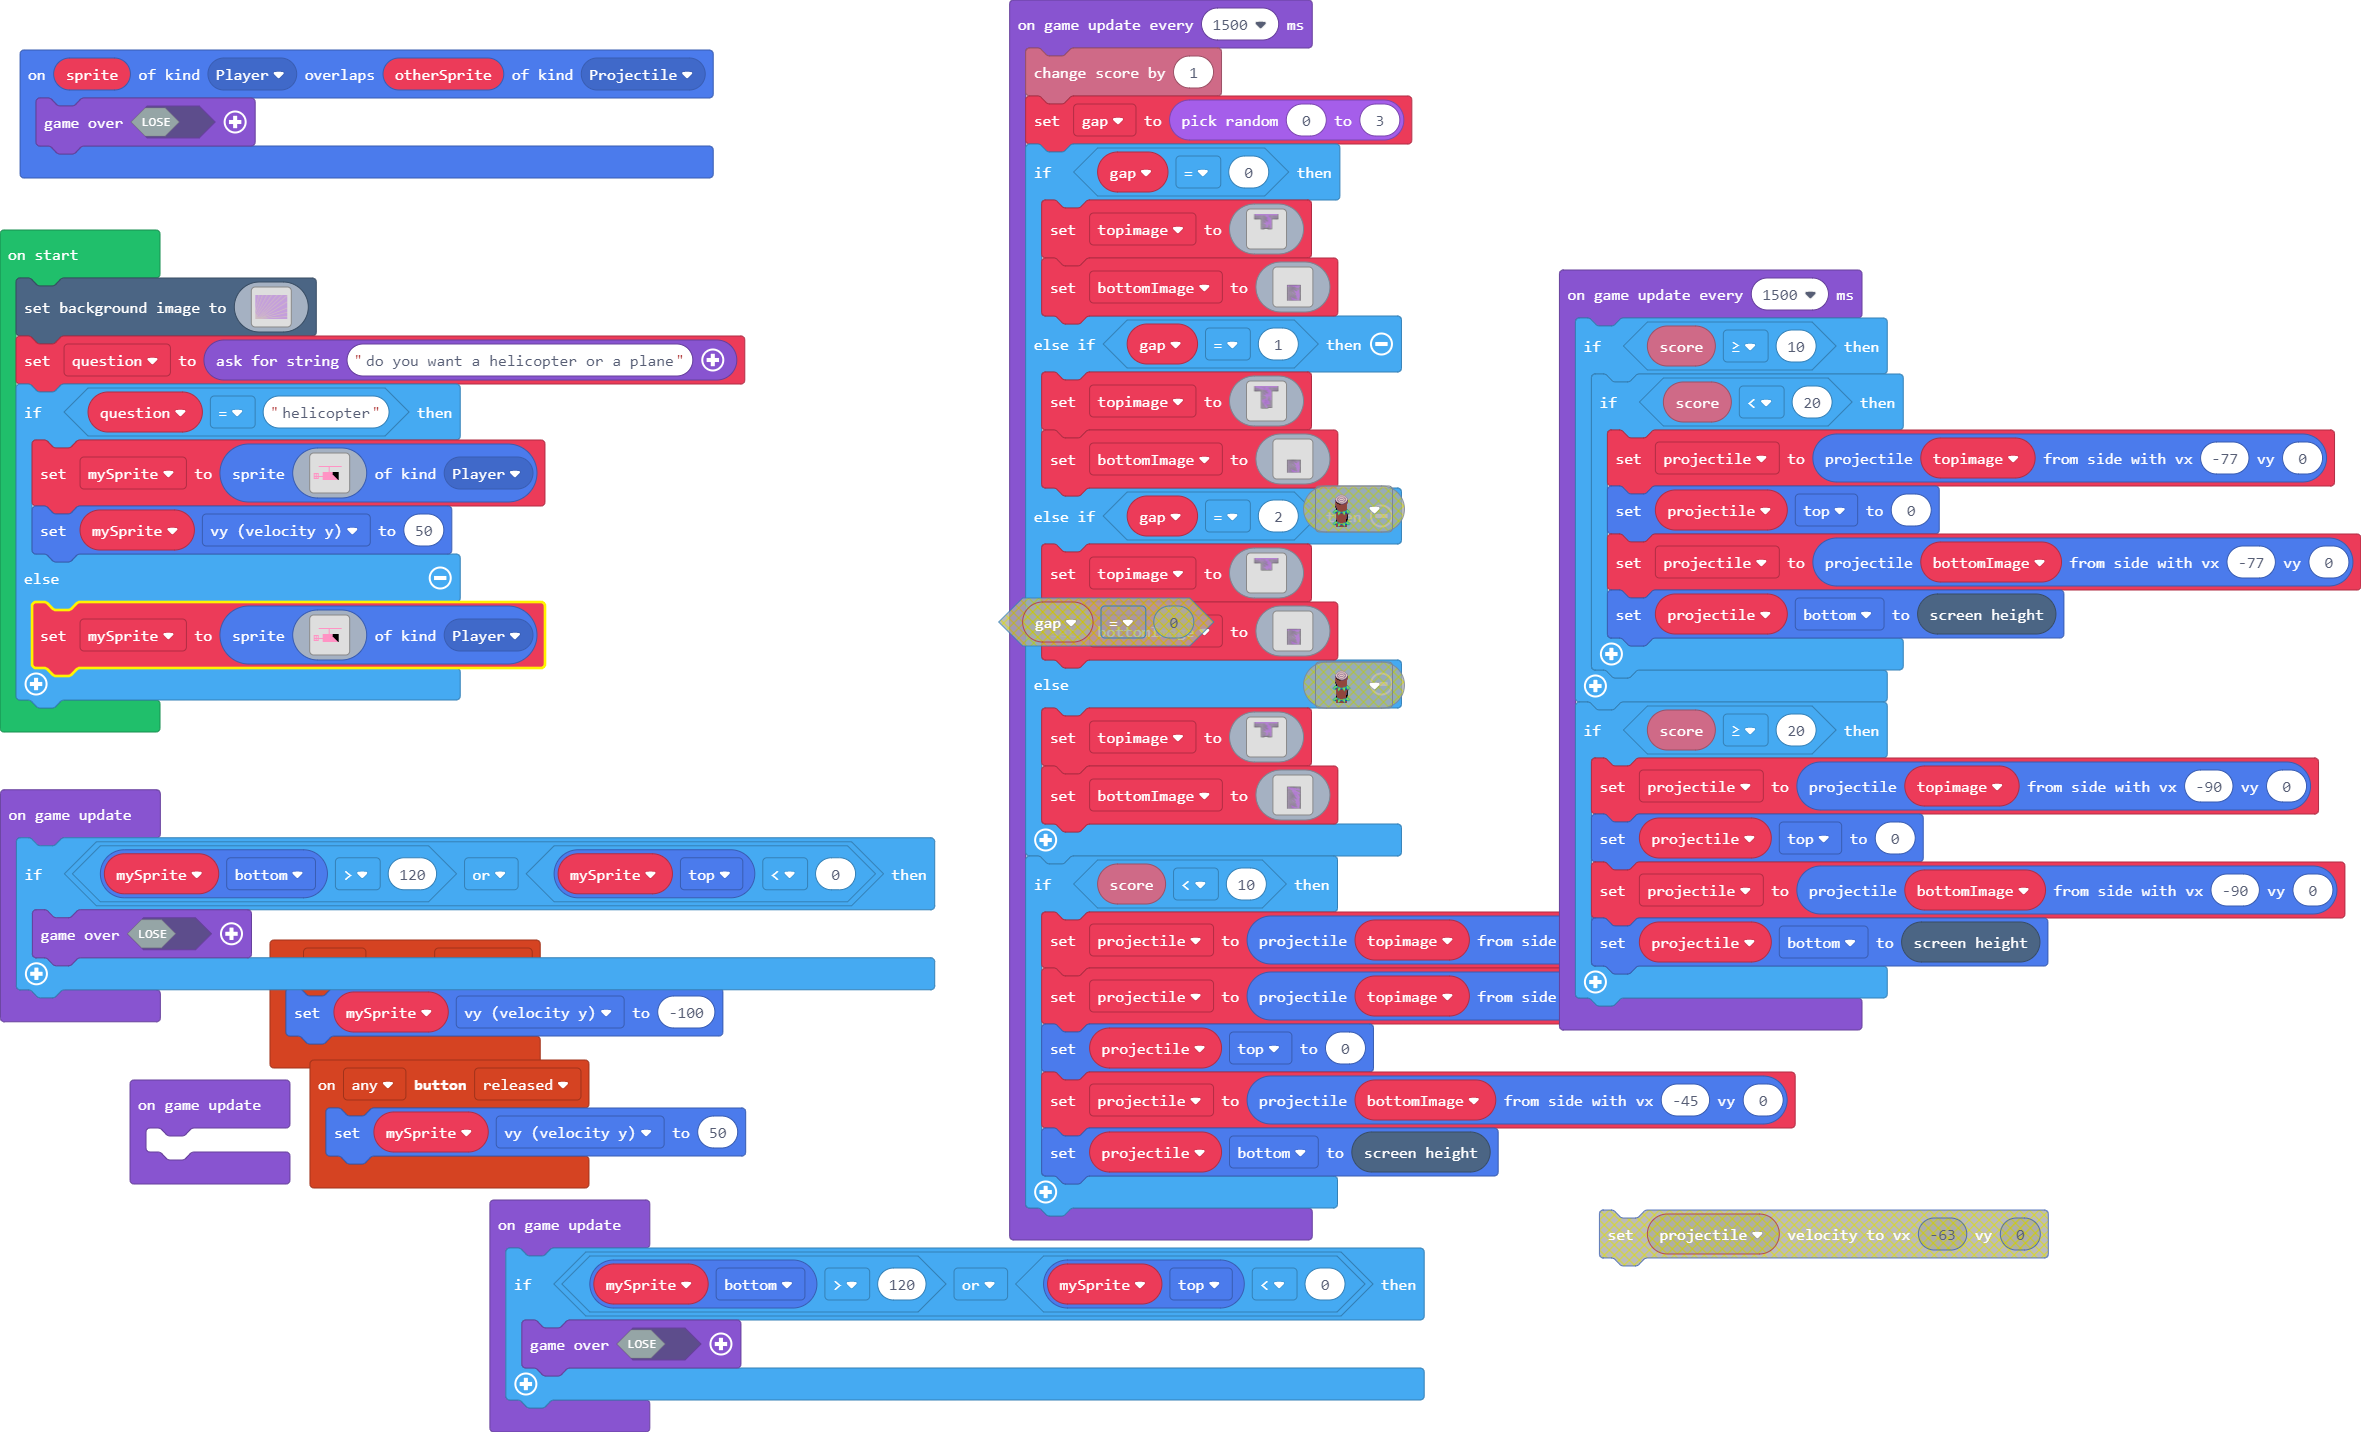
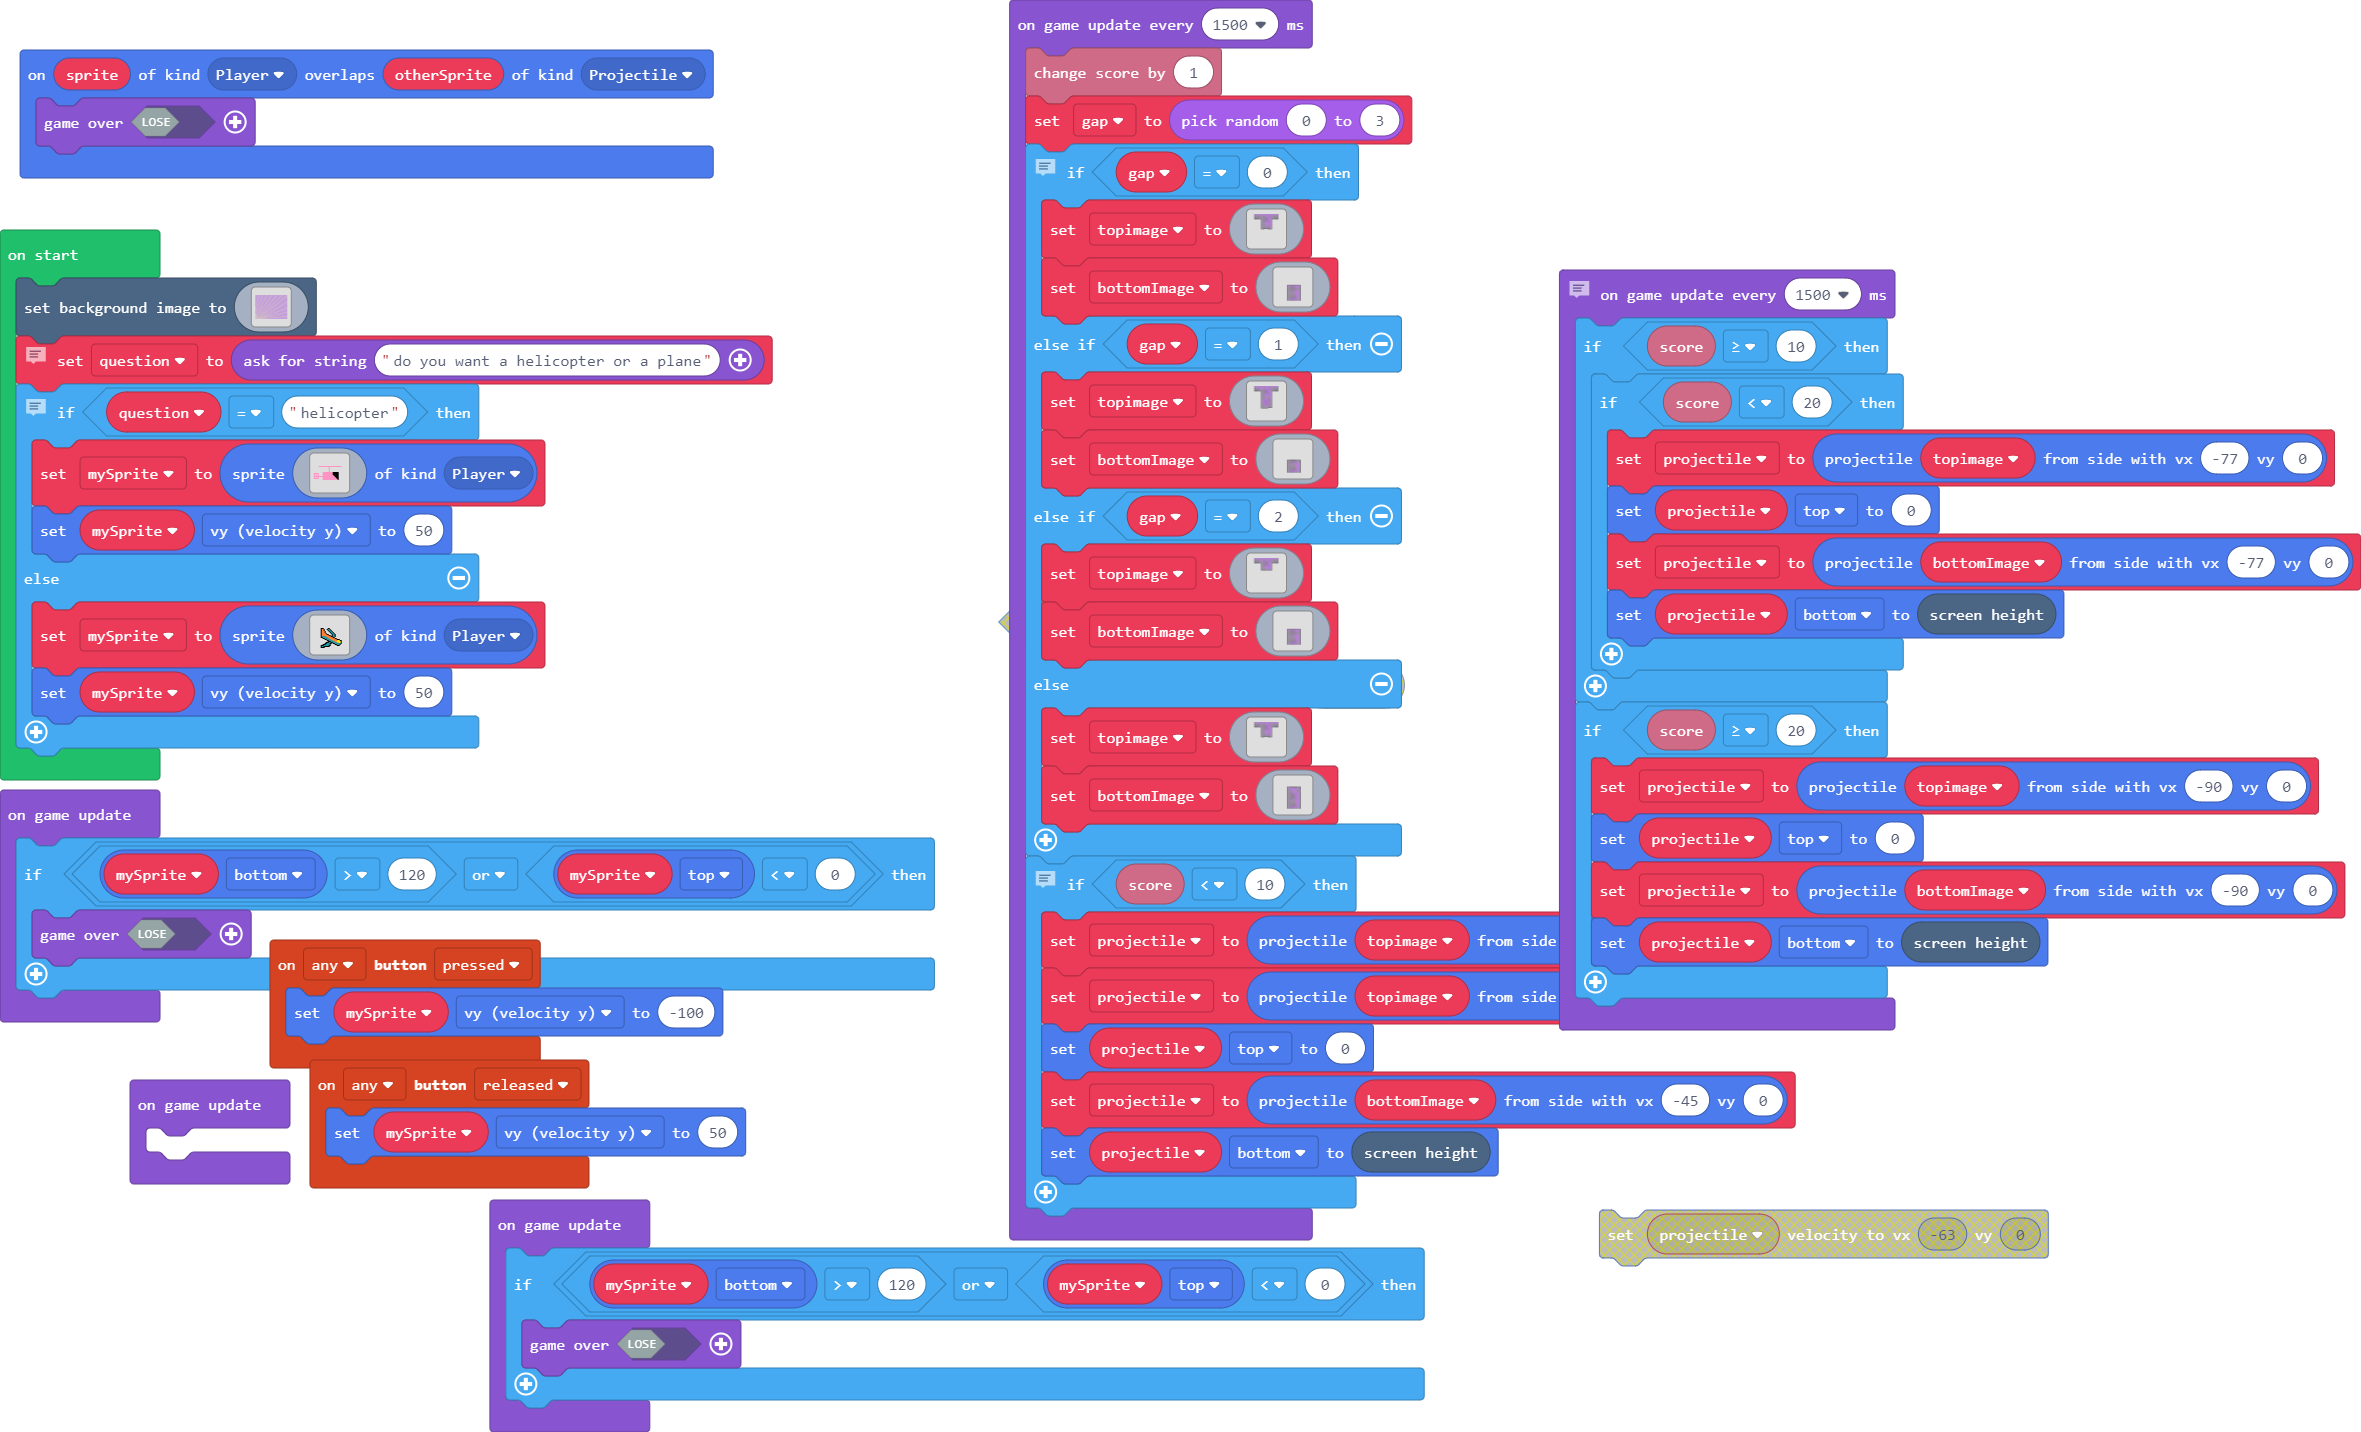
Update main.blocks, main.ts

diff --git a/main.ts b/main.ts
@@ -134,7 +134,11 @@ b b b b b b b b b b b b b b b b b b b b b b b b b b b b b b b b b b b b b b b b 
 b b b b b b b b b b b b b b b b b b b b b b b b b b b b b b b b b b b b b b b b b b b b b b b a a a a a a a a a a a a a a a a a a a a a a a a a a a a a a a a a a a a a a a a a a a a a a a a a a a a a a a a a a a a a a a a a a a a a a a a a a a a a a a a a a a a a a a a a a a a a a a a a a a a a a a a a a a a a a a a a 
 b b b b b b b b b b b b b b b b b b b b b b b b b b b b b b b b b b b a a a a a a a a a a a a a a a a a a a a a a a a a a a a a a a a a a a a a a a a a a a a a a a a a a a a a a a a a a a a a a a a a a a a a a a a a a a a a a a a a a a a a a a a a a a a a a a a a a a a a a a a a a a a a a a a a a a a a a a a a a a a a 
 `)
+// asks the player if they want their sprite to be a
+// plane or helicopter
 let question = game.askForString("do you want a helicopter or a plane")
+// depending on user input this series of code decides
+// on which sprite to use
 if (question == "helicopter") {
     mySprite = sprites.create(img`
 . . . . . . . . . . . . . . . . . . . . . . . . . . . . . . . . 
@@ -182,34 +186,37 @@ if (question == "helicopter") {
 . . . . . . . . . . . . . . . . . . . . . . . . . . . . . . . . 
 . . . . . . . . . . . . . . . . . . . . . . . . . . . . . . . . 
 . . . . . . . . . . . . . . . . . . . . . . . . . . . . . . . . 
-. . . . . 3 3 3 3 3 3 3 3 3 3 3 3 3 3 3 3 3 3 3 3 3 3 3 . . . . 
-. . . . . . . . . . . . . . . 3 . . . . . . . . . . . . . . . . 
-. . . . . . . . . . . . . . . 3 . . . . . . . . . . . . . . . . 
-. . . . . . . . . . . . . . . 3 . . . . . . . . . . . . . . . . 
-. . . . . . . . . . . . . . . 3 . . . . . . . . . . . . . . . . 
-. . . . . . . . . . . . . . . 3 . . . . . . . . . . . . . . . . 
-. . . . . . . . . 3 3 3 3 3 3 3 3 3 3 f f f f f f . . . . . . . 
-3 3 3 3 3 . . . . 3 3 3 3 3 3 3 3 3 3 f f f f f f . . . . . . . 
-3 . 3 . 3 . . . . 3 3 3 3 3 3 3 3 3 3 f f f f f f . . . . . . . 
-3 . 3 . 3 . . . . 3 3 3 3 3 3 3 3 3 3 3 f f f f f . . . . . . . 
-3 3 3 3 3 3 3 3 3 3 3 3 3 3 3 3 3 3 3 3 3 f f f f . . . . . . . 
-3 . 3 . 3 . . . . 3 3 3 3 3 3 3 3 3 3 3 3 3 f f f . . . . . . . 
-3 3 3 3 3 . . . . 3 3 3 3 3 3 3 3 3 3 3 3 3 3 f f . . . . . . . 
-. . . . . . . . . 3 3 3 3 3 3 3 3 3 3 3 3 3 3 3 f . . . . . . . 
-. . . . . . . . . . . . . . . . . . . . . . . . . . . . . . . . 
-. . . . . . . . . . . . . . . . . . . . . . . . . . . . . . . . 
-. . . . . . . . . . . . . . . . . . . . . . . . . . . . . . . . 
-. . . . . . . . . . . . . . . . . . . . . . . . . . . . . . . . 
-. . . . . . . . . . . . . . . . . . . . . . . . . . . . . . . . 
-. . . . . . . . . . . . . . . . . . . . . . . . . . . . . . . . 
+. . . . . . . f f f . . . . f f . . . . . . . . . . . . . . . . 
+. . . . . . . f 4 4 f . . f 6 6 f . . . . . . . . . . . . . . . 
+. . . . . . . f 4 4 f . . . f 6 6 f . . . . . . . . . . . . . . 
+. . . . . . . f 4 4 4 f . . . f 6 6 f . . . . . . . . . . . . . 
+. . . . . . . f 4 4 4 f . . . . f 6 6 f . . . . . . . . . . . . 
+. . . . . . . f 4 4 4 4 f . . . . f 6 6 f . . . . . . . . . . . 
+. . . . . . . f 4 4 4 4 4 f f . . . f 6 6 f . . . . . . . . . . 
+. . . . . . . f 4 4 4 4 4 4 4 f f . f 6 6 f . . . . . . . . . . 
+. . . . . . . f 6 6 6 6 4 4 4 4 4 f f 6 6 f . . . . . . . . . . 
+. . . . . . . f f 6 6 6 6 6 4 4 4 4 4 f f . . . . . . . . . . . 
+. . . . . . . . . f f 6 6 6 6 4 4 4 4 4 4 f f . . . . . . . . . 
+. . . . . . . . . . . f f 6 6 6 6 4 4 4 4 4 4 f f f . . . . . . 
+. . . . . . . . . . . . . f f 6 6 6 6 4 4 4 4 4 5 5 f f . . . . 
+. . . . . . . . . . . . . . f f f 6 6 6 6 4 4 5 5 5 5 f . . . . 
+. . . . . . . . . . . . f f f 6 6 f f 6 6 6 6 4 4 5 5 f . . . . 
+. . . . . . . . . . . f f 6 6 6 f f . f f 6 6 6 6 6 6 f . . . . 
+. . . . . . . . . f f f 6 6 6 6 f . . . . f f 6 6 6 f . . . . . 
+. . . . . . . f f f 6 6 6 6 6 f f . . . . . . f f f . . . . . . 
+. . . . . . . f 6 6 f f f f f f . . . . . . . . . . . . . . . . 
+. . . . . . . f f f f . . . . . . . . . . . . . . . . . . . . . 
 . . . . . . . . . . . . . . . . . . . . . . . . . . . . . . . . 
 . . . . . . . . . . . . . . . . . . . . . . . . . . . . . . . . 
 . . . . . . . . . . . . . . . . . . . . . . . . . . . . . . . . 
 `, SpriteKind.Player)
+    mySprite.vy = 50
 }
 game.onUpdateInterval(1500, function () {
     info.changeScoreBy(1)
     gap = Math.randomRange(0, 3)
+    // chooses randomly which series of pillars will be
+    // used
     if (gap == 0) {
         topimage = img`
 . . . . . . . . f a a a a a a a a a a a a a a a a a a a a a a a a a a a a a a a a a a a a a a a a a a a a a a a a f . . . . . . . . . 
@@ -711,6 +718,8 @@ game.onUpdateInterval(1500, function () {
 . . . . . . . . . . . . . . . . . . . . . f c c c c c c c c c c c c c c c c c c c c c c c c c c c f . . . . . . . . . . . . . . . . . 
 `
     }
+    // sets the speed of the pillars to -45 until the
+    // player reaches a score of 10
     if (info.score() < 10) {
         projectile = sprites.createProjectileFromSide(topimage, -45, 0)
         projectile = sprites.createProjectileFromSide(topimage, -45, 0)
@@ -719,6 +728,8 @@ game.onUpdateInterval(1500, function () {
         projectile.bottom = scene.screenHeight()
     }
 })
+// changes the speed of the pillars after 10 points
+// and 20 points
 game.onUpdateInterval(1500, function () {
     if (info.score() >= 10) {
         if (info.score() < 20) {
